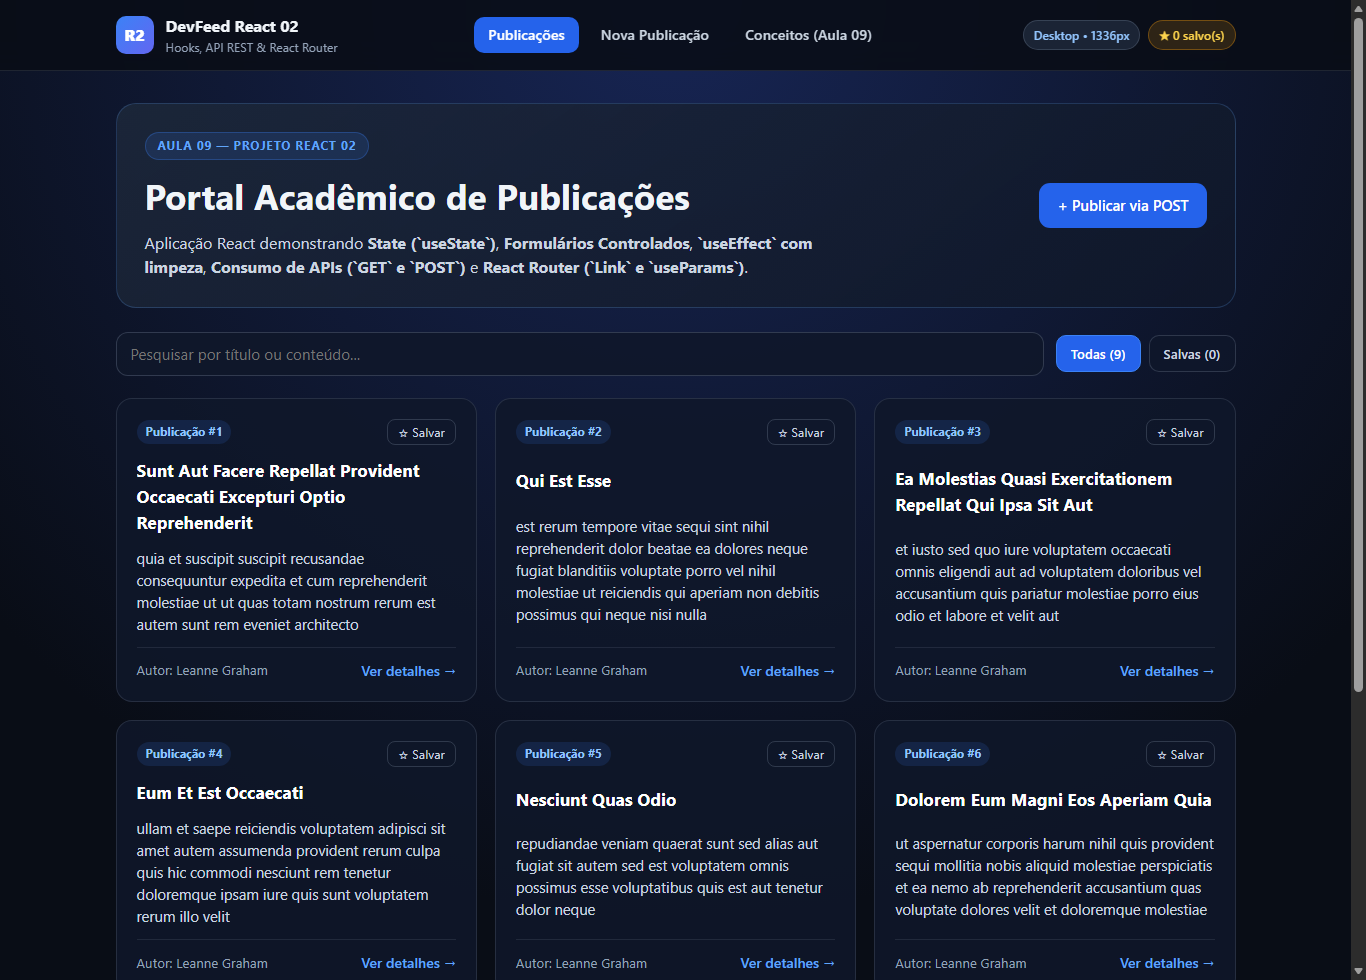
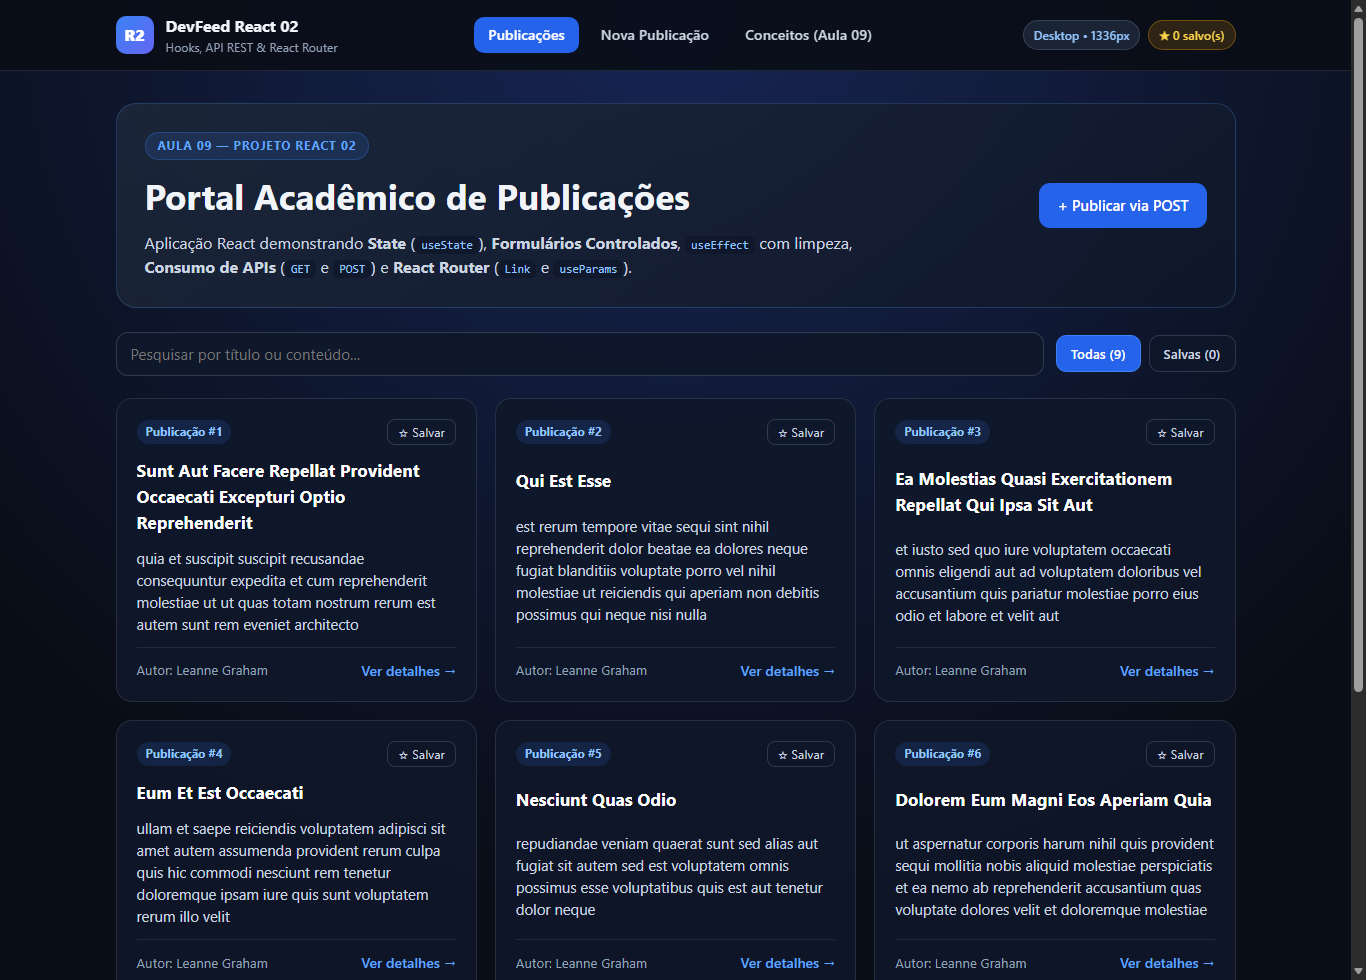
style: formata tags code no cabecalho do portal

Changed region(s): [[0.123, 0.2449, 0.6149, 0.3061]]

diff --git a/src/App.jsx b/src/App.jsx
@@ -54,11 +54,12 @@ function PaginaPublicacoes({
           <span className="etiqueta">AULA 09 — PROJETO REACT 02</span>
           <h1>Portal Acadêmico de Publicações</h1>
           <p>
-            Aplicação React demonstrando <strong>State (`useState`)</strong>,{" "}
-            <strong>Formulários Controlados</strong>,{" "}
-            <strong>`useEffect` com limpeza</strong>,{" "}
-            <strong>Consumo de APIs (`GET` e `POST`)</strong> e{" "}
-            <strong>React Router (`Link` e `useParams`)</strong>.
+            Aplicação React demonstrando <strong>State</strong> (
+            <code>useState</code>), <strong>Formulários Controlados</strong>,{" "}
+            <code>useEffect</code> com limpeza,{" "}
+            <strong>Consumo de APIs</strong> (<code>GET</code> e{" "}
+            <code>POST</code>) e <strong>React Router</strong> (
+            <code>Link</code> e <code>useParams</code>).
           </p>
         </div>
         <Link to="/nova" className="btn-primario">
